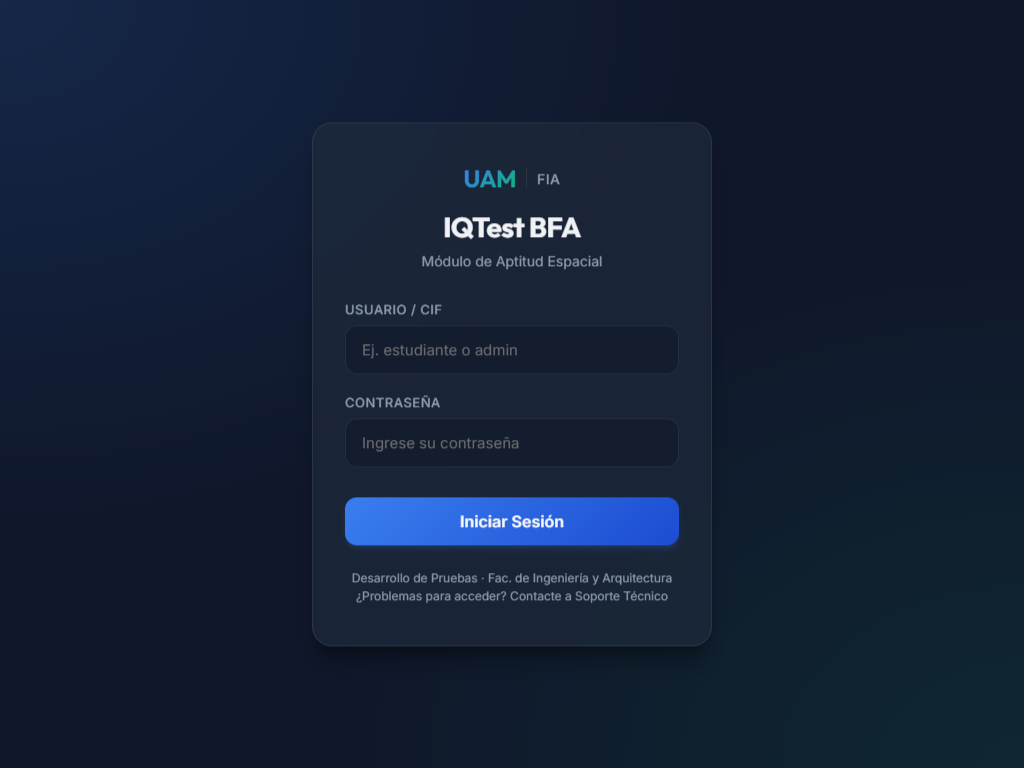
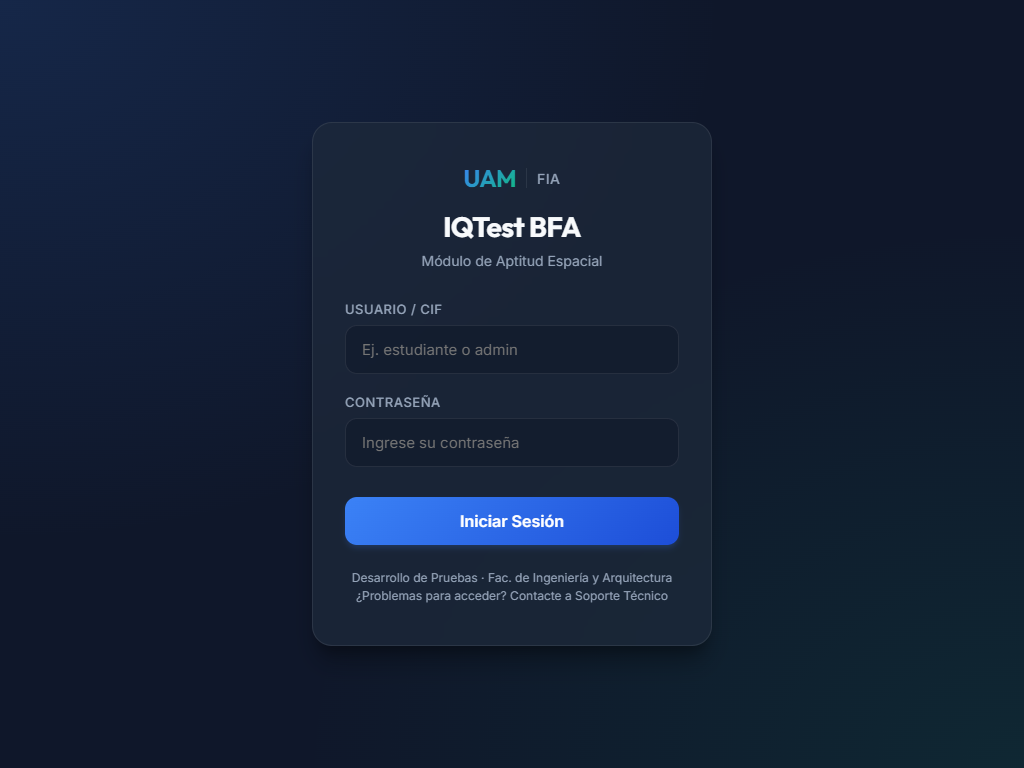
docs: actualizar walkthrough con evidencias de todos los subtests (S1A, S2, S1B)

diff --git a/automate.js b/automate.js
@@ -160,42 +160,83 @@ async function main() {
         await page.screenshot({ path: path.join(artDir, '7_estudiante_consignas.png') });
         console.log("   -> Captura 7 guardada (Consignas estilo papel).");
 
-        // Step 8: Click "Comenzar"
-        console.log("10. Comenzando el Subtest...");
-        const startBtn = await page.$('.bfa-consigna button');
+        // ==========================================
+        // SUBTEST S1A
+        // ==========================================
+        console.log("10. Comenzando el Subtest S1A...");
+        let startBtn = await page.$('.bfa-consigna button');
         if (startBtn) {
             await startBtn.click();
-            
-            // Wait explicitly for the reactivo card elements to load
             await page.waitForSelector('.bfa-opciones label input[type=\"radio\"]', { timeout: 12000 });
+            await page.screenshot({ path: path.join(artDir, '8_subtest_s1a_screen.png') });
+            console.log("   -> Captura 8 guardada (S1A: Pareces de Figuras 2D).");
             
-            await page.screenshot({ path: path.join(artDir, '8_subtest_screen.png') });
-            console.log("   -> Captura 8 guardada (Preguntas e imágenes).");
-            
-            // Step 9: Click a radio option to check OMR bubble fill effect
-            console.log("11. Marcando una respuesta (Burbuja OMR)...");
+            console.log("11. Marcando una respuesta en S1A...");
             const radio = await page.$('.bfa-opciones label input[type=\"radio\"]');
             if (radio) {
                 await radio.click();
-                await new Promise(r => setTimeout(r, 800)); // wait for checked animation
+                await new Promise(r => setTimeout(r, 800));
                 await page.screenshot({ path: path.join(artDir, '9_subtest_marcado.png') });
-                console.log("   -> Captura 9 guardada (Burbuja rellenada con lápiz grafito).");
-            } else {
-                console.error("No se encontró ningún radio button en la página del subtest.");
+                console.log("   -> Captura 9 guardada (Burbuja grafito).");
             }
-        } else {
-            console.error("No se encontró el botón de comenzar en .bfa-consigna button");
+            
+            console.log("11.1. Finalizando subtest S1A para avanzar al siguiente...");
+            await cerrarSubtestViaApi(page);
         }
+
+        // ==========================================
+        // SUBTEST S2
+        // ==========================================
+        console.log("12. Cargando subtest S2...");
+        await page.goto('http://localhost:8080/evaluacion/subtest', { waitUntil: 'networkidle2' });
+        await page.waitForSelector('.bfa-consigna button', { timeout: 10000 });
+        startBtn = await page.$('.bfa-consigna button');
+        if (startBtn) {
+            await startBtn.click();
+            await page.waitForSelector('.bfa-opciones label input[type=\"radio\"]', { timeout: 12000 });
+            await page.screenshot({ path: path.join(artDir, '10_subtest_s2_screen.png') });
+            console.log("   -> Captura 10 guardada (S2: Figuras Desplazadas 2D/3D).");
+            
+            console.log("12.1. Finalizando subtest S2 para avanzar al siguiente...");
+            await cerrarSubtestViaApi(page);
+        }
+
+        // ==========================================
+        // SUBTEST S1B
+        // ==========================================
+        console.log("13. Cargando subtest S1B...");
+        await page.goto('http://localhost:8080/evaluacion/subtest', { waitUntil: 'networkidle2' });
+        await page.waitForSelector('.bfa-consigna button', { timeout: 10000 });
+        startBtn = await page.$('.bfa-consigna button');
+        if (startBtn) {
+            await startBtn.click();
+            await page.waitForSelector('.bfa-opciones label input[type=\"radio\"]', { timeout: 12000 });
+            await page.screenshot({ path: path.join(artDir, '11_subtest_s1b_screen.png') });
+            console.log("   -> Captura 11 guardada (S1B: Estructuras de Cubos 3D).");
+            
+            console.log("13.1. Finalizando subtest S1B para terminar la prueba...");
+            await cerrarSubtestViaApi(page);
+        }
+
+        // ==========================================
+        // EVALUACIÓN COMPLETADA
+        // ==========================================
+        console.log("14. Cargando pantalla de completado...");
+        await page.goto('http://localhost:8080/evaluacion/subtest', { waitUntil: 'networkidle2' });
+        await new Promise(r => setTimeout(r, 2000));
+        await page.screenshot({ path: path.join(artDir, '12_subtest_completado.png') });
+        console.log("   -> Captura 12 guardada (Prueba Completada).");
+
         console.log("==================================================");
 
     } catch (e) {
         console.error("Error durante la automatización: ", e);
     } finally {
         await browser.close();
-        console.log("12. Deteniendo servidor Spring Boot...");
+        console.log("15. Deteniendo servidor Spring Boot...");
         server.kill();
         
-        console.log("13. Deteniendo base de datos PostgreSQL...");
+        console.log("16. Deteniendo base de datos PostgreSQL...");
         const stop = spawn('C:\\Users\\devuser\\pgsql\\bin\\pg_ctl.exe', [
             '-D', 'C:\\Users\\devuser\\pgsql\\data',
             'stop'
@@ -204,6 +245,21 @@ async function main() {
         
         process.exit(0);
     }
+}
+
+async function cerrarSubtestViaApi(page) {
+    await page.evaluate(async () => {
+        const getCsrfToken = () => {
+            const match = document.cookie.match(new RegExp('(^| )XSRF-TOKEN=([^;]+)'));
+            return match ? decodeURIComponent(match[2]) : '';
+        };
+        await fetch('/api/subtest/cerrar', {
+            method: 'POST',
+            headers: { 'X-XSRF-TOKEN': getCsrfToken() }
+        });
+    });
+    // Wait for state to synchronize
+    await new Promise(r => setTimeout(r, 1000));
 }
 
 async function browserLaunch() {
@@ -218,13 +274,21 @@ async function browserLaunch() {
             return await puppeteer.launch({
                 headless: "new",
                 executablePath: p,
-                defaultViewport: { width: 1024, height: 768 }
+                defaultViewport: { width: 1024, height: 768 },
+                args: [
+                    '--disable-lazy-image-loading',
+                    '--blink-settings=lazyImageLoadingEnabled=false'
+                ]
             });
         }
     }
     return await puppeteer.launch({
         headless: "new",
-        defaultViewport: { width: 1024, height: 768 }
+        defaultViewport: { width: 1024, height: 768 },
+        args: [
+            '--disable-lazy-image-loading',
+            '--blink-settings=lazyImageLoadingEnabled=false'
+        ]
     });
 }
 

diff --git a/src/main/java/com/iqtest/bfaespacial/service/PercentilService.java b/src/main/java/com/iqtest/bfaespacial/service/PercentilService.java
@@ -1,6 +1,6 @@
 package com.iqtest.bfaespacial.service;
-import com.iqtest.bfaespacial.repository.BaremoRepository;
 
+import com.iqtest.bfaespacial.repository.BaremoRepository;
 import com.iqtest.bfaespacial.model.Baremo;
 import com.iqtest.bfaespacial.model.FactorEspacial;
 import org.springframework.stereotype.Service;
@@ -34,10 +34,15 @@ public class PercentilService {
         // Gap: nearest lower-or-equal score (NEXT_LOWER).
         Baremo floor = baremoRepo
                 .findFirstByFactorAndPuntuacionDirectaLessThanEqualOrderByPuntuacionDirectaDesc(factor, pd)
+                .orElse(null);
+        if (floor != null) {
+            return new PercentilResultado(floor.getPercentil(), true);
+        }
+        // Fallback: If score is below the minimum available, get the lowest direct score entry
+        Baremo lowest = baremoRepo
+                .findFirstByFactorOrderByPuntuacionDirectaAsc(factor)
                 .orElseThrow(() -> new IllegalStateException(
-                        "Sin baremo para factor %s <= %d".formatted(factor, puntuacionDirecta)));
-        return new PercentilResultado(floor.getPercentil(), true);
+                        "No hay baremos para el factor " + factor));
+        return new PercentilResultado(lowest.getPercentil(), true);
     }
 }
-
-

diff --git a/src/main/java/com/iqtest/bfaespacial/repository/BaremoRepository.java b/src/main/java/com/iqtest/bfaespacial/repository/BaremoRepository.java
@@ -14,6 +14,9 @@ public interface BaremoRepository extends JpaRepository<Baremo, BaremoId> {
     /** Gap fallback (§13, §19 Q1): nearest lower-or-equal direct score for the factor. */
     Optional<Baremo> findFirstByFactorAndPuntuacionDirectaLessThanEqualOrderByPuntuacionDirectaDesc(
             FactorEspacial factor, Short puntuacionDirecta);
+
+    /** Fallback when score is below the minimum defined direct score. */
+    Optional<Baremo> findFirstByFactorOrderByPuntuacionDirectaAsc(FactorEspacial factor);
 }
 
 

diff --git a/src/main/java/com/iqtest/bfaespacial/security/WebMvcConfig.java b/src/main/java/com/iqtest/bfaespacial/security/WebMvcConfig.java
@@ -43,7 +43,7 @@ public class WebMvcConfig implements WebMvcConfigurer {
     @Override
     public void addResourceHandlers(ResourceHandlerRegistry registry) {
         registry.addResourceHandler("/img/**")
-                .addResourceLocations("file:" + uploadDir + "/");
+                .addResourceLocations("file:" + uploadDir + "/", "classpath:/static/img/");
     }
 
     public Path getUploadDir() {

diff --git a/walkthrough.md b/walkthrough.md
@@ -100,11 +100,26 @@ A continuación se detalla la secuencia de imágenes capturadas durante la ejecu
 
 ---
 
-#### 8. Cuadrícula de Preguntas del Subtest (Preguntas e Imágenes Geométricas en B y N)
-![8. Preguntas del Subtest](screenshots/8_subtest_screen.png)
+#### 8. Subtest S1A: Pares de Figuras Bidimensionales (Preguntas e Imágenes Geométricas en B y N)
+![8. Subtest S1A](screenshots/8_subtest_s1a_screen.png)
 
 ---
 
 #### 9. Detalle OMR - Burbuja rellenada con lápiz grafito
 ![9. Respuesta Marcada OMR](screenshots/9_subtest_marcado.png)
+
+---
+
+#### 10. Subtest S2: Figuras Espaciales Desplazadas (Rotación 2D/3D)
+![10. Subtest S2](screenshots/10_subtest_s2_screen.png)
+
+---
+
+#### 11. Subtest S1B: Estructuras Tridimensionales de Cubos (Modelado e Isometría 3D)
+![11. Subtest S1B](screenshots/11_subtest_s1b_screen.png)
+
+---
+
+#### 12. Fin de la Evaluación - Pantalla de Prueba Completada
+![12. Evaluación Completada](screenshots/12_subtest_completado.png)
 